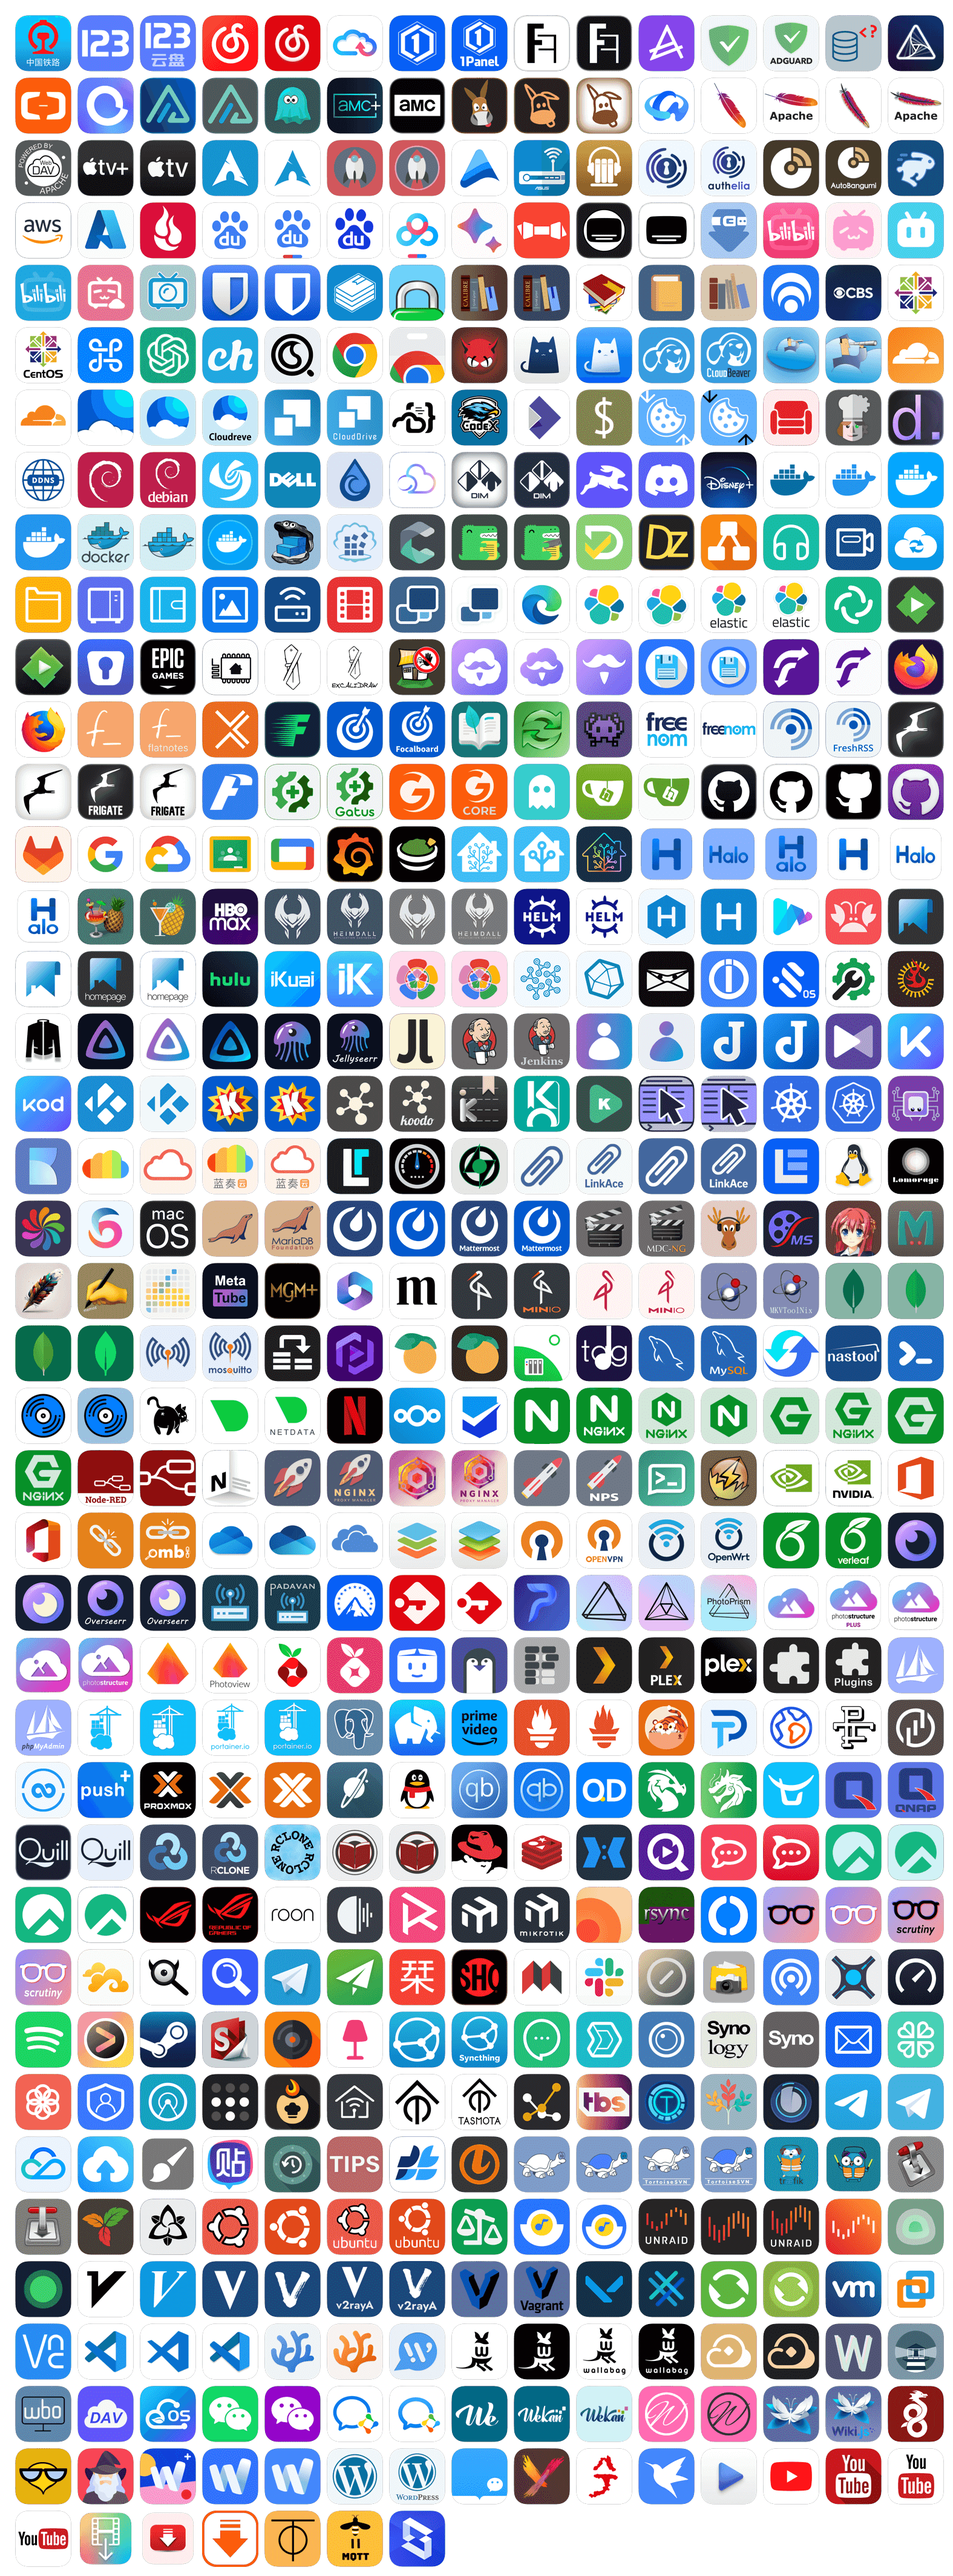
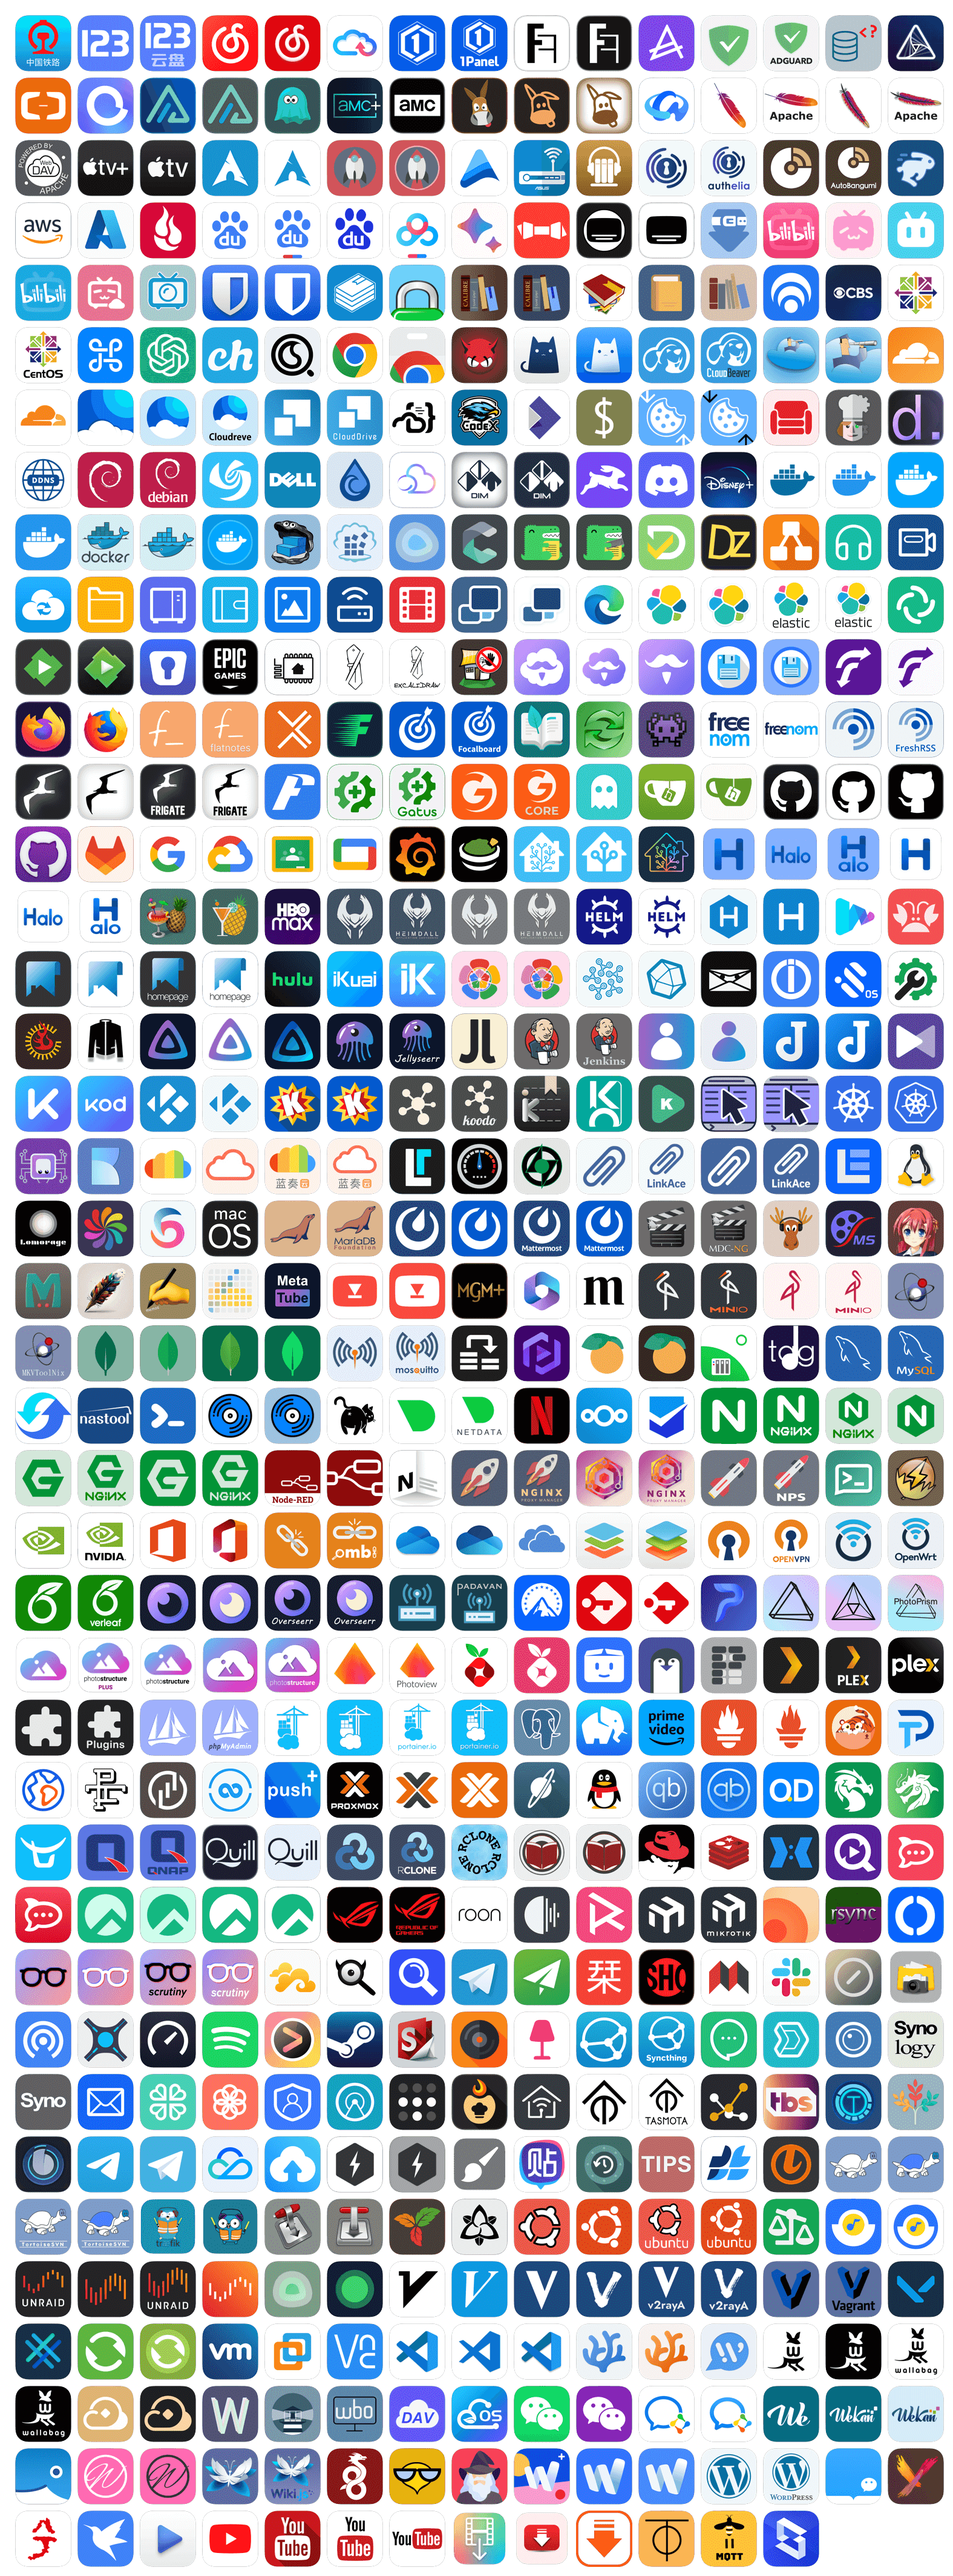
Add MeTube、TeslaMate、Dockge、WhaleDeck

diff --git a/README.md b/README.md
@@ -71,7 +71,7 @@
 
 - 例如，图标文件在 `/mnt/user/appdata/icons` 下，则图标地址填写 `/mnt/user/appdata/icons/xxxxx.png` 或者 `http://127.0.0.1/mnt/user/appdata/icons/xxxxx.png`，将 xxxxx 换成对应的图标名称即可，<a href="#圆角矩形图标"><strong>图标名称预览在此 »</strong></a>
 
-# 图标预览（当前共计 811 个）
+# 图标预览（当前共计 817 个）
 ## 圆角矩形图标
 <!-- START BORDER-RADIUS ICONS -->
 <img src="https://github.com/xushier/HD-Icons/blob/main/_icons-radius.png?raw=true" alt="radius">
